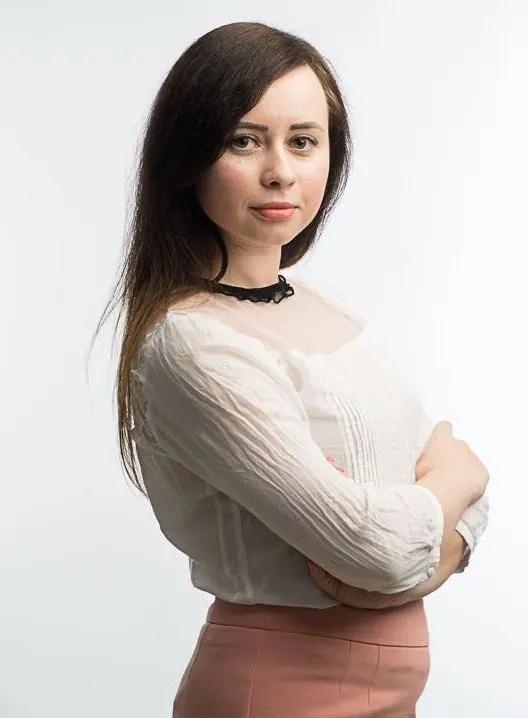
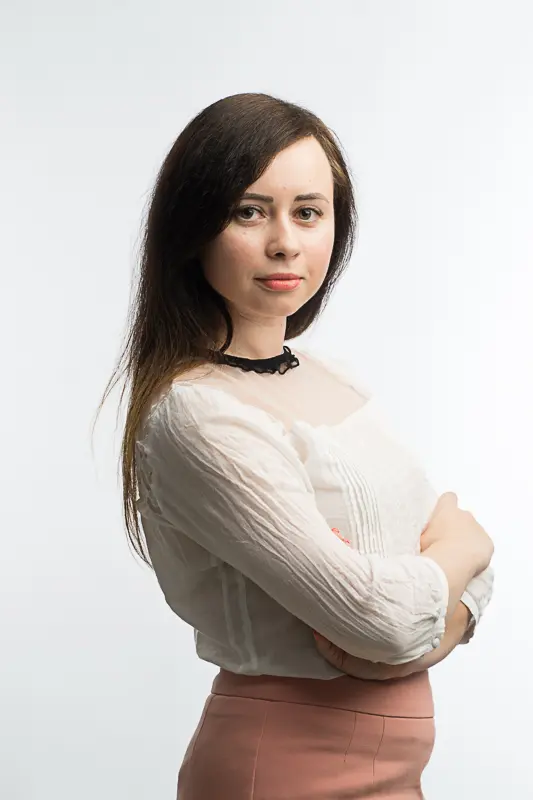
change main photo

diff --git a/_layouts/home.html b/_layouts/home.html
@@ -11,8 +11,8 @@ bodyClass: "page-home"
                     <div class="col d-flex flex-column justify-content-center">
                         <picture>
                             <source media="(min-width:720px)"
-                                    width="528"
-                                    height="718"
+                                    width="533"
+                                    height="800"
                                     srcset="/assets/images/illustrations/main-photo.webp">
                             <img src="/assets/images/illustrations/main-photo-mobile.webp"
                                  alt="{{ site.title }}"
